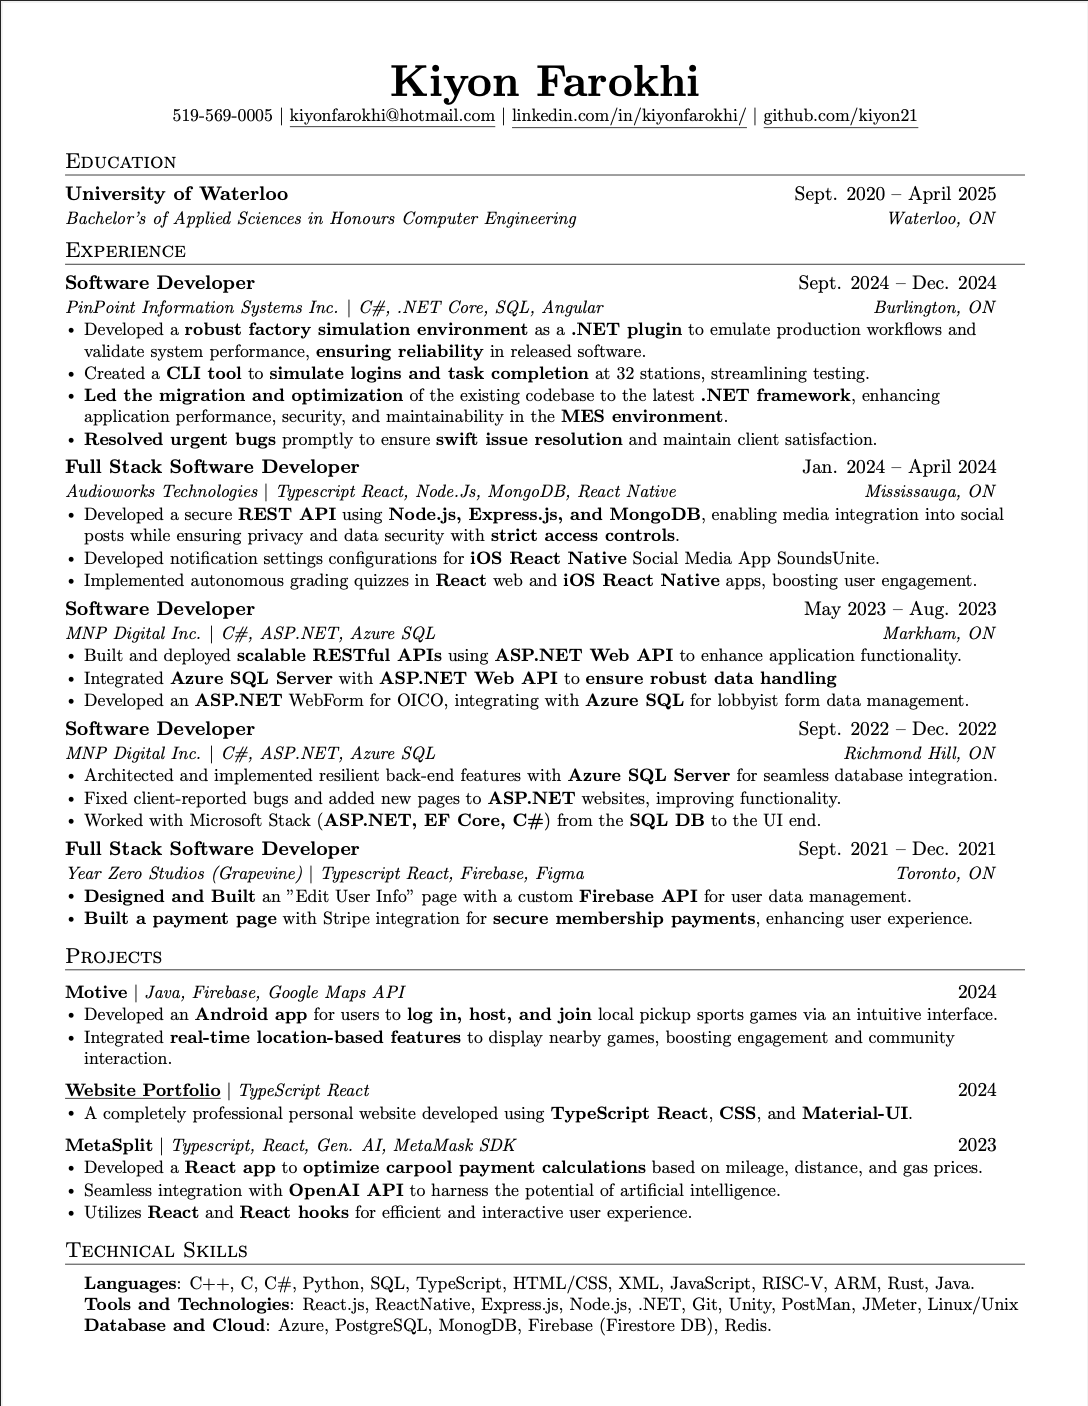
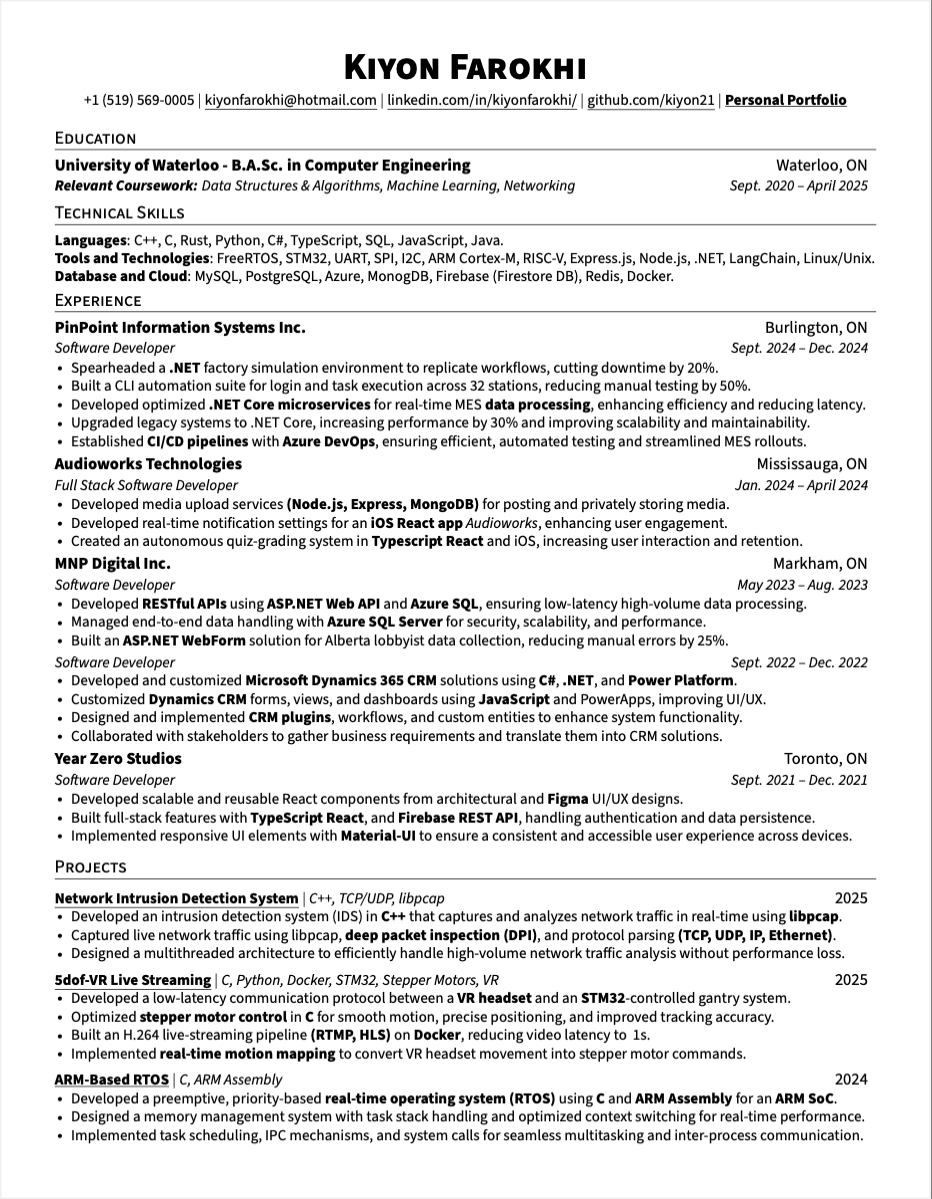
updated job and projects sections

Changed region(s): [[0.0622, 0.0309, 0.9335, 0.9566], [0.9957, 0.0, 1.0, 1.0]]

diff --git a/src/info/ProjectsData.tsx b/src/info/ProjectsData.tsx
@@ -3,35 +3,51 @@ import metasplit from "../img/Metasplit.png"
 import altera from "../img/Altera.jpg"
 import motive from "../img/MotiveComponents.png"
 import rtos from "../img/rtos.png"
+import nids from "../img/nids.png"
+import fiveDof from "../img/5dof.png"
 
 export const projects = [
-
+  {
+    id: 0,
+    title: "5dof VR Livestreaming",
+    description: "5DOF-VR-LiveStreaming is an innovative immersive technology solution that transforms traditional VR streaming by enabling near-six degrees of freedom (5 DoF) in live video environments. This groundbreaking system uses precision mechanical actuation to physically reposition a 360° camera in real-time based on user movement, creating an unprecedented level of immersion for remote exploration and telepresence applications.",
+    imageUrl:fiveDof,
+    link:"https://github.com/kiyon21/5dof-VR-livestreaming"
+  },
+  {
+    id: 1, 
+    title:"Secure Network Monitor",
+    description:"SecureNetworkMonitor is a robust, high-performance network security solution designed to protect critical infrastructure against sophisticated cyber threats. Developed in C++, this powerful intrusion detection system provides real-time network monitoring and analysis to identify, alert, and respond to potential security breaches before they compromise your systems.",
+    imageUrl:nids,
+    link:"https://github.com/kiyon21/SecureNetworkMonitor"
+  },
+  {
+    id: 2, 
+    title:"ARM-Based RTOS",
+    description:"Developed a pre-emptive, priority-based, multi-tasking kernel using C and ARM Assembly for an ARM SoC. Includes memory management scheme, task manipulation, scheduler logistics and test framework for the kernel, verifying its operation through extensive tests.",
+    imageUrl:rtos,
+    link:"https://github.com/kiyon21/RTOS-ARM-Based"
+  },
     {
-      id: 1,
+      id: 3,
       title: "Metasplit",
       description: "MetaSplit is a cutting-edge React application that leverages the power of AI (using the OpenAI API) and integrates with MetaMask to revolutionize group transactions, particularly for carpooling scenarios. By employing advanced algorithms and AI capabilities, MetaSplit accurately calculates equal payments, taking into account car mileage, distance traveled, and gas prices.",
       imageUrl: metasplit,
       link: "https://github.com/kiyon21/MetaSplit/"
     },
     {
-      id: 2,
+      id: 4,
       title: "Audio Player",
       description: "This project is a fully functional audio playback system designed to play any .WAV audio file stored on an SD card using the Altera DE2 development board. The system leverages the board's hardware capabilities, including the audio codec and SD card interface, to provide seamless audio playback. The software is written entirely in C and is optimized for real-time audio streaming, ensuring smooth and high-quality output.",
       imageUrl: altera,
       link: "https://github.com/kiyon21/Music-Player"
     },
     {
-        id: 3, 
+        id: 5, 
         title:"Motive - Android App",
         description:"Motive is a mobile app that connects people looking to play team sports with people hosting said sporting events. This application allows users to host their events and let people nearby be informed of what sports are being played, the specific participant details about the person, and any additional items required to participate.",
         imageUrl:motive,
         link:"https://github.com/kiyon21/Motive"
     },
-    {
-      id: 4, 
-      title:"ARM-Based RTOS",
-      description:"Developed a pre-emptive, priority-based, multi-tasking kernel using C and ARM Assembly for an ARM SoC. Includes memory management scheme, task manipulation, scheduler logistics and test framework for the kernel, verifying its operation through extensive tests.",
-      imageUrl:rtos,
-      link:"https://github.com/kiyon21/RTOS-ARM-Based"
-  }
+
   ];

diff --git a/src/info/Jobs.tsx b/src/info/Jobs.tsx
@@ -3,6 +3,7 @@ import pinpointlogo from '../img/PINpoint-Logo-JPEG-1.jpg';
 import awlogo from '../img/Audioworks.jpeg';
 import mnplogo from '../img/MNPlogo.png'
 import { JobData } from '../types/JobExperience';
+import yzslogo from '../img/yzs.png';
 
 export const experiences: JobData[] = [
     {
@@ -54,5 +55,17 @@ export const experiences: JobData[] = [
           'Worked with Microsoft Stack (ASP.NET, EF Core, C#) from the SQL DB to the UI end.'
         ],
         logo:mnplogo
+      },
+      {
+        id: 4,
+        company: 'Year Zero Studios',
+        position: 'Software Developer',
+        period: 'Sept 2021 - Dec 2021',
+        description: [
+          'Developed scalable and reusable React components from architectural and Figma UI/UX designs.',
+          'Built full-stack features with TypeScript, React, and Firebase REST API, handling authentication and data persistence.',
+          'Implemented responsive UI elements with Material-UI to ensure a consistent and accessible user experience across devices.'
+        ],
+        logo:yzslogo
       }
   ];
